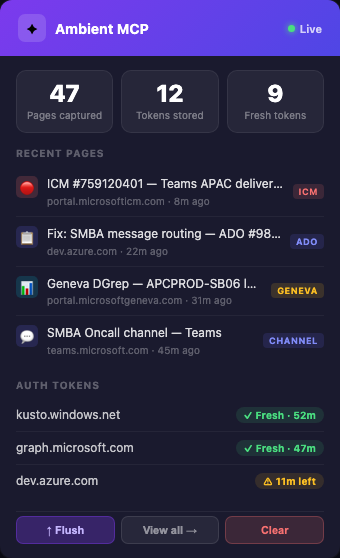
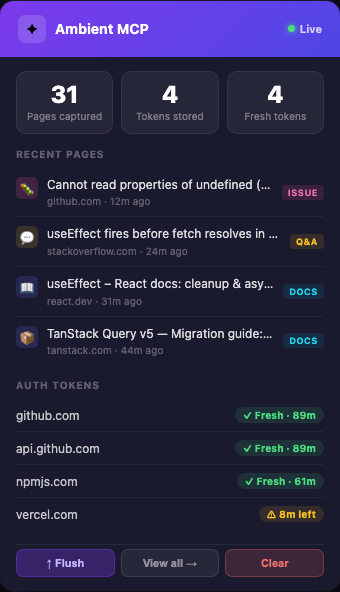
docs: replace ICM scenario with universal React debugging example in screenshots + README
- New hero: side-by-side Claude session — TypeError debugging across
  GitHub issue, Stack Overflow, React docs, TanStack Query migration guide
- New popup screenshot: GitHub/npm/Vercel tokens, universal dev pages
- Updated before/after scenarios: debugging, PR description, deploy, standup
- Entity types list updated to universal stack (GitHub, SO, Vercel, AWS, etc.)

diff --git a/README.md b/README.md
@@ -74,38 +74,40 @@ The extension popup shows live stats and recent activity. On the right, Claude s
 
 ## Before vs After
 
-### You open a new Claude session and ask: "Help me investigate this Teams outage"
+### "This TypeError keeps crashing my app. Can you help?"
+
+You've had four tabs open for an hour: a GitHub issue, a Stack Overflow thread, the React docs, and a migration guide. Claude has no idea.
 
 **Without Ambient MCP:**
-> Claude: "What's the incident ID? Which region? What tenant? Which logs have you checked? Can you paste an auth token?"
-> *(You spend the next 5 minutes copy-pasting context)*
+> Claude: "Can you share the error message? Which file? What framework? What have you already tried?"
+> *(You spend 5 minutes copy-pasting stack traces and explaining context you've already researched)*
 
 **With Ambient MCP:**
-> Claude calls `get_recent_context()` → sees ICM #759120401, your Geneva log tab, the related ADO work item, and a fresh Kusto token
-> Claude: *"I can see you've been on ICM #759120401 — Teams APAC delivery failure. You have a fresh Kusto token (52 min left). Let me query the incident timeline and check if ADO #98765 was deployed to APCPROD before this started."*
+> Claude calls `get_recent_context()` → sees GitHub issue #1089, your Stack Overflow tab about React 18 async timing, the React docs on useEffect cleanup, and a TanStack Query v5 migration guide
+> Claude: *"I can see exactly what you've been debugging. You've got a React 18 async race condition — your fetch resolves after the component unmounts. Quick fix: add an isMounted cleanup flag. Better fix: you were already reading the TanStack Query migration guide — switching to `useQuery` handles this automatically. Want me to show both?"*
 
 ---
 
 ### "Write a PR description for my changes"
 
 **Without Ambient MCP:**
-> Claude: "What repo? What issue does this fix? What changed?"
+> Claude: "What repo? What issue does this fix? What's the context?"
 
 **With Ambient MCP:**
-> Claude calls `get_pages_by_entity("ado_work_item")` → finds the bug you triaged, the PR you have open, the related work items
-> Claude: *"Based on work item #12345 you were reviewing and PR #678 you opened, here's a description that captures the full context..."*
+> Claude calls `get_pages_by_entity("github_issue")` → finds the bug report you read, the PR you have open, and the related issues you visited
+> Claude: *"Based on issue #1089 you were investigating and PR #234 you opened, here's a description that captures the full context..."*
 
 ---
 
-### "Make this API call for me"
+### "Deploy this to production"
 
 **Without Ambient MCP:**
-> Claude: "I'll need an auth token. Can you paste it here?"
+> Claude: "I'll need your Vercel token. Can you paste it?"
 
 **With Ambient MCP:**
-> Claude calls `check_token_for_domain("graph.microsoft.com")` → `{ valid: true, minsLeft: 47 }`
-> Claude calls `get_token_for_domain("graph.microsoft.com")` → uses your live token directly
-> Claude: *"Using your existing Graph token (47 minutes remaining)..."*
+> Claude calls `check_token_for_domain("vercel.com")` → `{ valid: true, minsLeft: 61 }`
+> Claude calls `get_token_for_domain("vercel.com")` → uses your live session token directly
+> Claude: *"Using your existing Vercel token (61 minutes remaining)..."*
 
 ---
 
@@ -115,8 +117,8 @@ The extension popup shows live stats and recent activity. On the right, Claude s
 > Claude: "I don't have visibility into what you worked on outside this conversation."
 
 **With Ambient MCP:**
-> Claude calls `get_recent_visits(limit=200)` → 45 min on ICM #750444345, 20 min on PR #98765, 30 min in Teams oncall channel
-> Claude: *"Today you focused on: (1) Incident #750444345 — Teams delivery failure in APAC. (2) Code review on PR #98765. (3) Oncall monitoring in SMBA channel. The incident took most of your time."*
+> Claude calls `get_recent_visits(limit=100)` → 40 min debugging the React TypeError, 25 min on code review, 20 min reading deployment docs
+> Claude: *"Today you spent most of your time on the undefined map() bug in your fetch logic. You also reviewed a PR and read through the Vercel deployment docs. The bug investigation is still open — want to pick up where you left off?"*
 
 ---
 
@@ -142,7 +144,7 @@ A live status dashboard in your browser toolbar. See pages captured, tokens stor
 | `get_recent_visits(limit?)` | Navigation timeline with time spent per page |
 
 **Entity types detected automatically:**
-`icm_incident` · `ado_work_item` · `ado_pr` · `ado_build` · `github_pr` · `github_issue` · `teams_meeting` · `teams_channel` · `outlook_email` · `outlook_calendar` · `azure_portal` · `geneva_logs` · `sharepoint` · `onedrive` · `wiki_page`
+`github_pr` · `github_issue` · `stackoverflow` · `npm_package` · `docs_page` · `jira_issue` · `linear_issue` · `notion_page` · `figma_file` · `confluence_page` · `teams_meeting` · `outlook_email` · `azure_portal` · `vercel_deployment` · `cloudflare_dashboard` · `aws_console` · `wiki_page`
 
 ---
 
